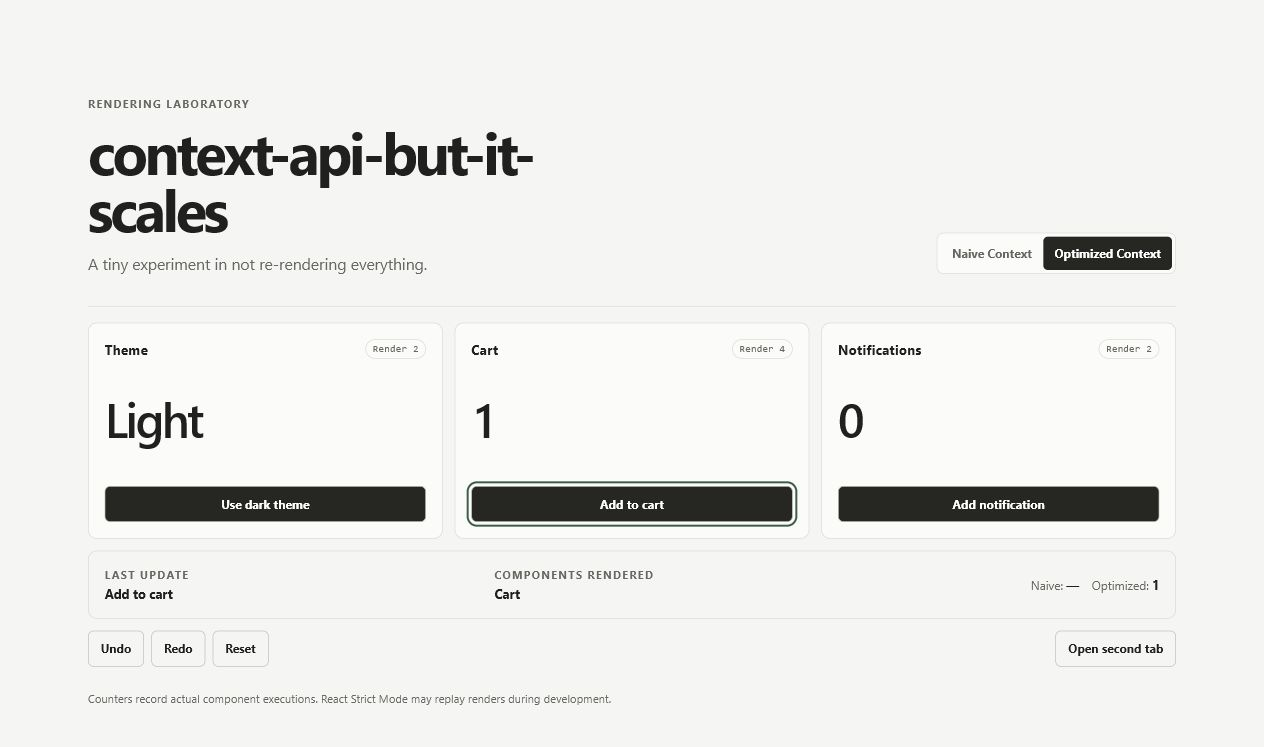
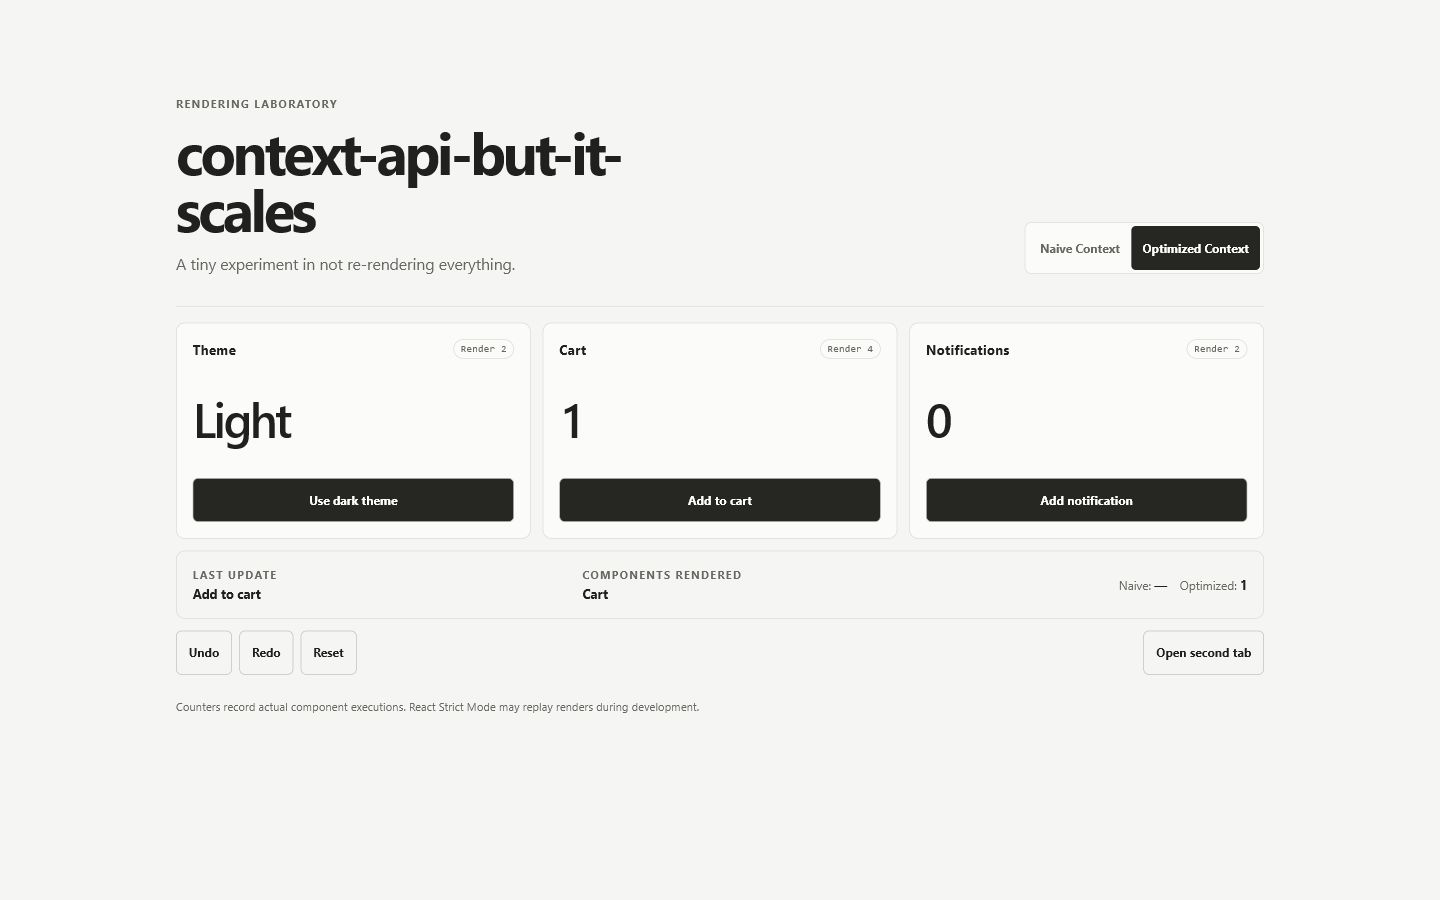
fix: polish control targets and final demo screenshot

diff --git a/src/styles.css b/src/styles.css
@@ -124,6 +124,7 @@ h2 {
 }
 
 .mode-switch__option {
+  min-height: 2.75rem;
   border: 0;
   border-radius: 0.28rem;
   padding: 0.55rem 0.7rem;
@@ -193,6 +194,7 @@ h2 {
 }
 
 .button {
+  min-height: 2.75rem;
   border: 1px solid var(--line-strong);
   border-radius: 0.35rem;
   padding: 0.58rem 0.75rem;